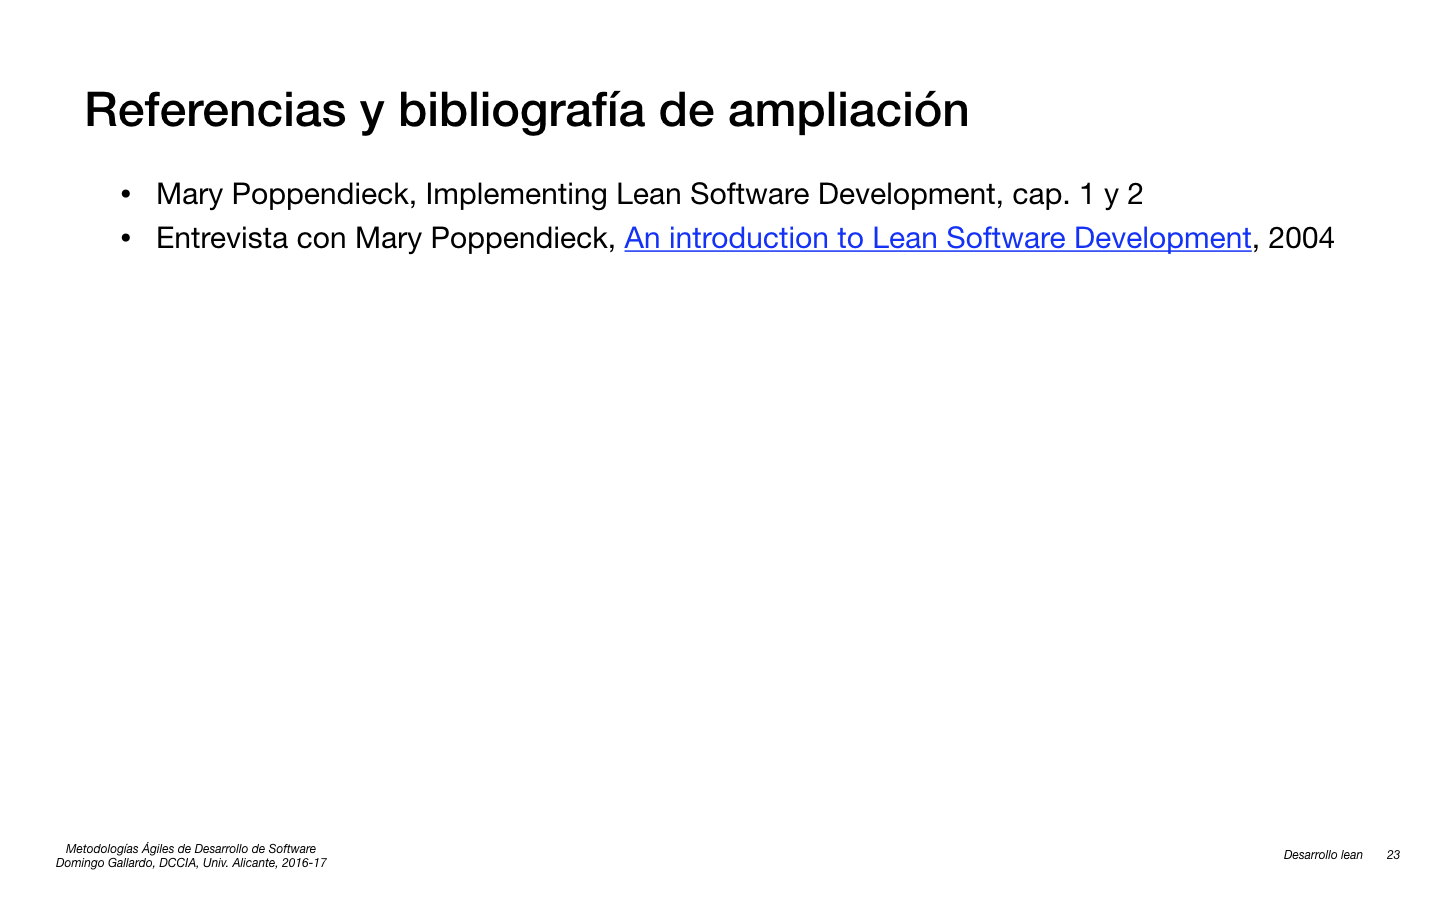
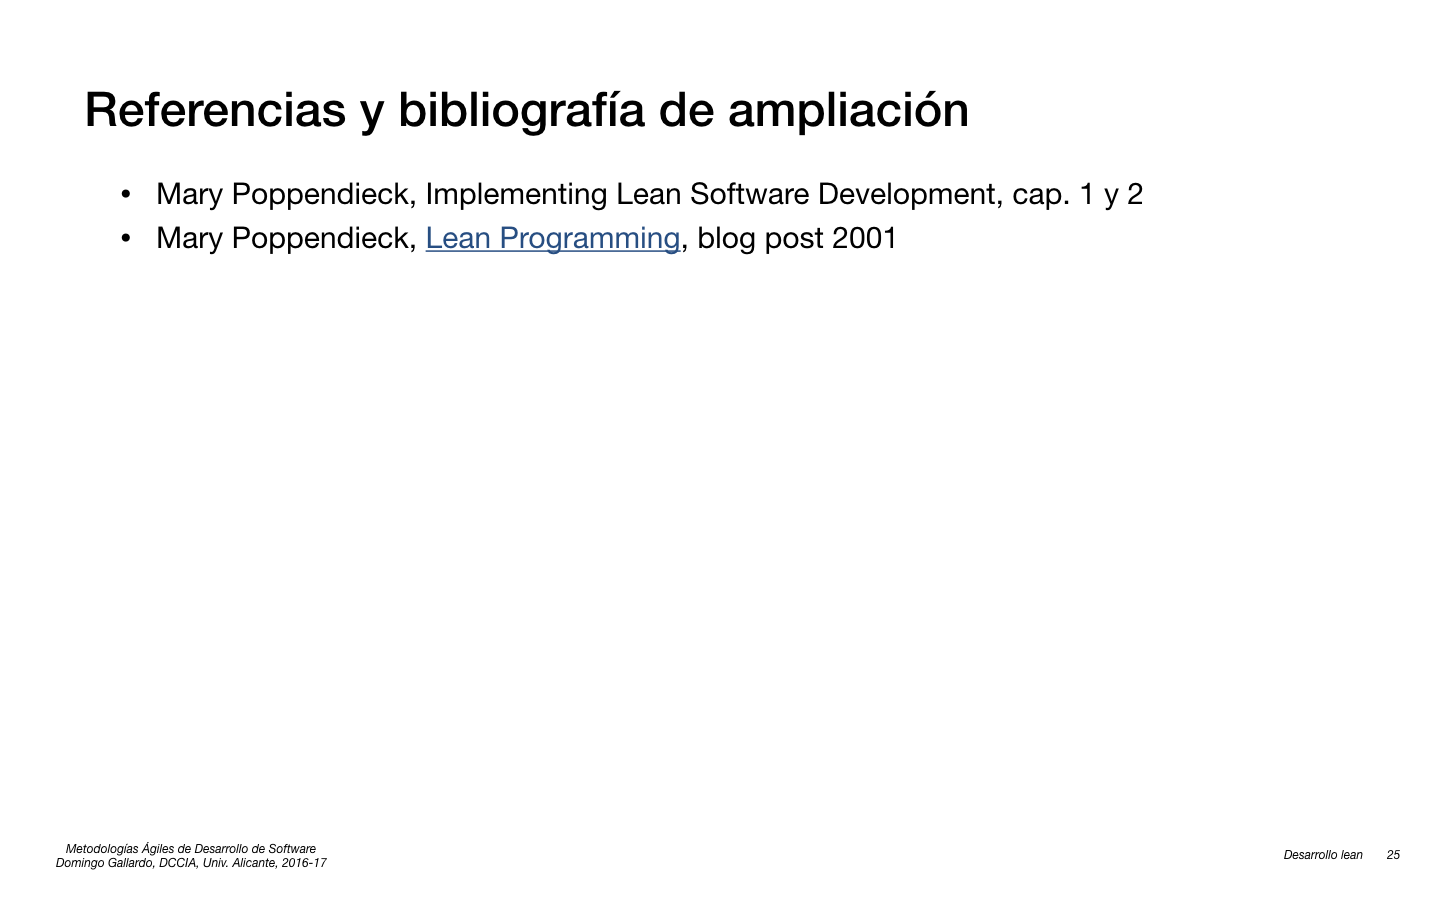
Pequeños cambios sesión 4

Changed region(s): [[0.0938, 0.2489, 0.9375, 0.28]]

diff --git a/sesiones/04-desarrollo-lean/desarrollo-lean.md b/sesiones/04-desarrollo-lean/desarrollo-lean.md
@@ -34,7 +34,6 @@
   [diapositivas](http://dl.dropbox.com/u/1018963/Henrik%20Kniberg%20Agile%20Lean%20Slides.pdf)
   de [Henrik Kniberg](https://www.crisp.se/konsulter/henrik-kniberg).
 
-<kbd><img src="diapositivas/desarrollo-lean.004b.png" width="800px"></kbd>
 
 <kbd><img src="diapositivas/desarrollo-lean.005.png" width="800px"></kbd>
 
@@ -179,6 +178,8 @@
   ([PDF](https://www.google.es/url?sa=t&rct=j&q=&esrc=s&source=web&cd=1&ved=0ahUKEwie0Pe2gbXPAhUCOxQKHfE_DwkQFggeMAA&url=https%3A%2F%2Fwww.crisp.se%2Ffile-uploads%2FLean-from-the-trenches.pdf&usg=AFQjCNFLq9y4a6bq1CCWa03EfonPhMbV5w))
 
 <kbd><img src="diapositivas/desarrollo-lean.014.png" width="800px"></kbd>
+
+<kbd><img src="diapositivas/desarrollo-lean.014b.png" width="800px"></kbd>
 
 <kbd><img src="diapositivas/desarrollo-lean.015.png" width="800px"></kbd>
 
@@ -384,4 +385,4 @@ versiones pasadas puestas en producción.
 
 <kbd><img src="diapositivas/desarrollo-lean.023.png" width="800px"></kbd>
 
-- Interview with Mary Poppendieck: [An introduction to Lean Software Development](http://www.citerus.se/interview-with-mary-poppendieck-an-introduction-to-lean-software-development/)
+- Post de 2001 de Mary Poppendieck: [Lean Programming](http://www.leanessays.com/2010/11/lean-programming.html)
